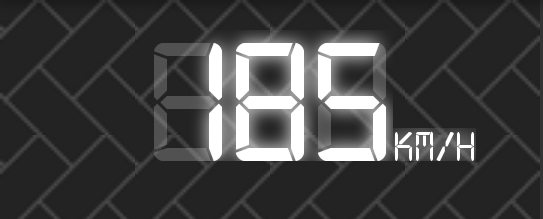
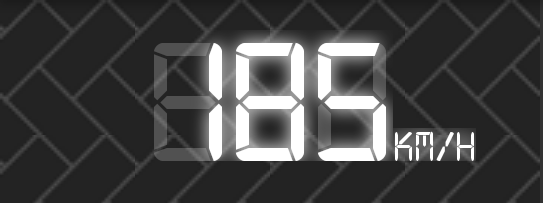
Update

diff --git a/README.md b/README.md
@@ -5,9 +5,9 @@
 
 Awesome digital speedometer for android, [see project on GitHub](https://github.com/capur16/DigitSpeedView).
 
-<img src="https://github.com/capur16/DigitSpeedView/blob/master/images/DigitSpeedView1.png" width="30%" />
-<img src="https://github.com/capur16/DigitSpeedView/blob/master/images/DigitSpeedView2.png" width="30%" />
-<img src="https://github.com/capur16/DigitSpeedView/blob/master/images/DigitSpeedView3.png" width="30%" />
+<img src="https://github.com/capur16/DigitSpeedView/blob/master/images/DigitSpeedView1.png" width="33%" />
+<img src="https://github.com/capur16/DigitSpeedView/blob/master/images/DigitSpeedView2.png" width="33%" />
+<img src="https://github.com/capur16/DigitSpeedView/blob/master/images/DigitSpeedView3.png" width="33%" />
 
 Compatibility
 -------------
